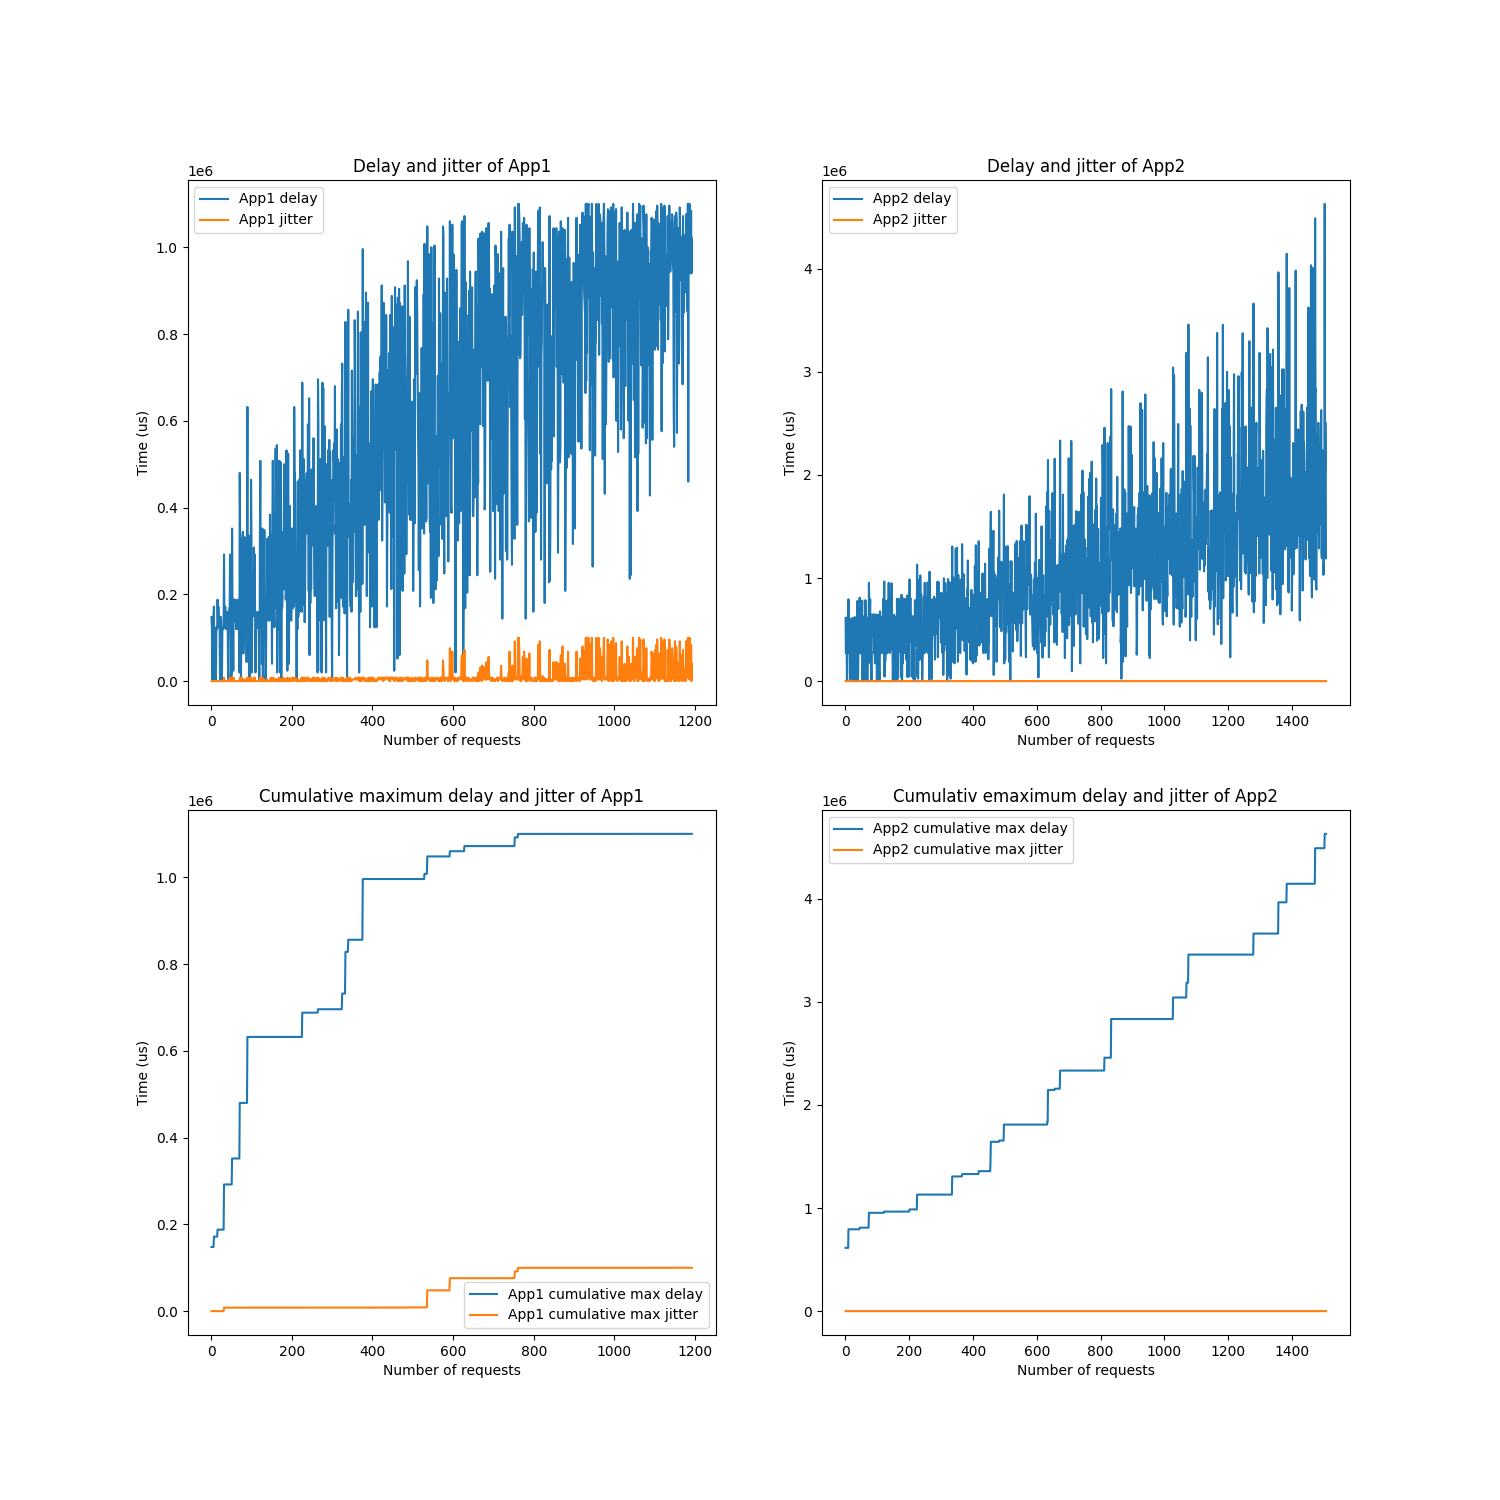
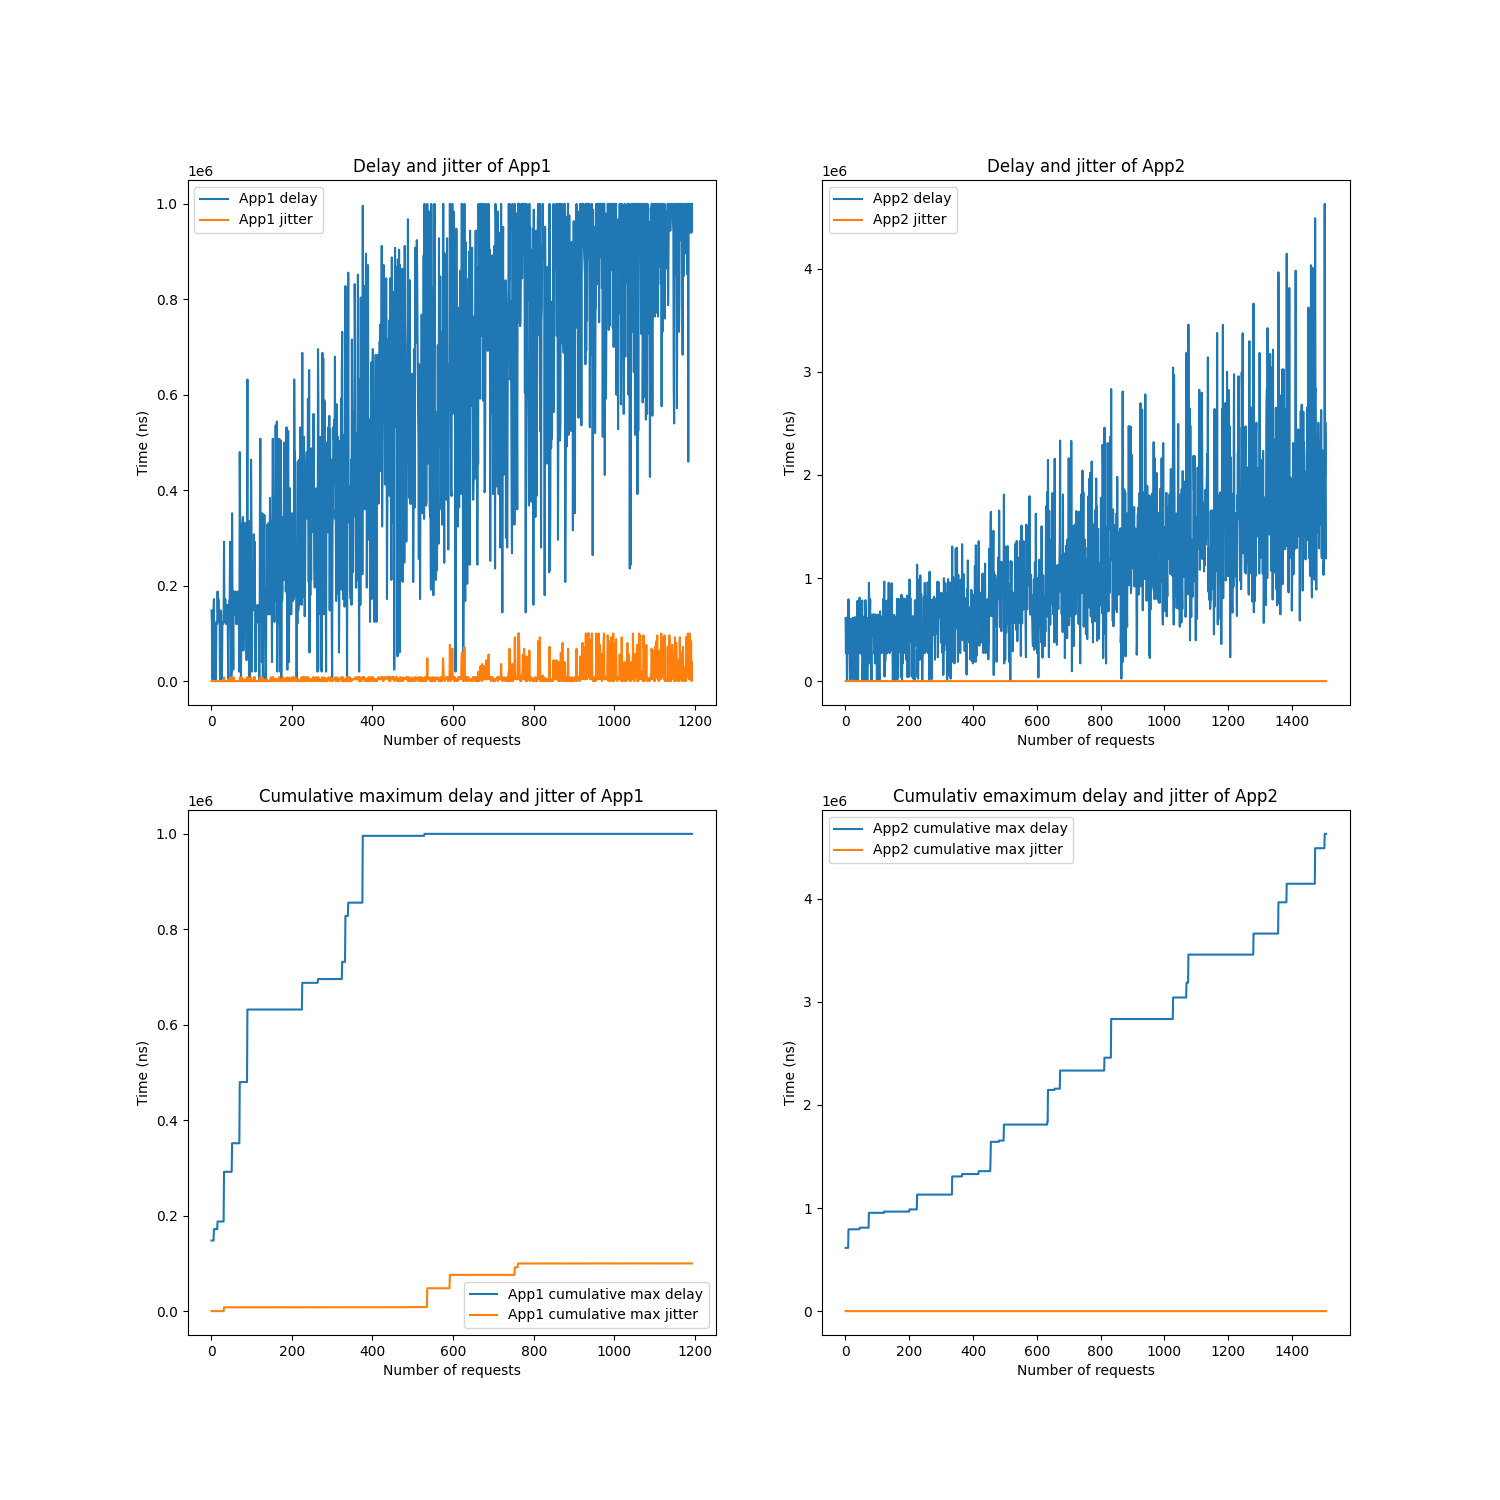
graphs

diff --git a/instance_generator/generate_graph.py b/instance_generator/generate_graph.py
@@ -44,7 +44,7 @@ app1_n_requests = range(1, len(app1_requests) + 1)
 app2_requests = [row for row in data if row['app'] == 'App2']
 app2_n_requests = range(1, len(app2_requests) + 1)
 
-app1_delay = [float(row['delay']) for row in app1_requests]
+app1_delay = [min(float(row['delay']),1*10**6) for row in app1_requests]
 app2_delay = [float(row['delay']) for row in app2_requests]
 app1_solving_time = [float(row['solving_time']) for row in app1_requests]
 app2_solving_time = [float(row['solving_time']) for row in app2_requests]
@@ -53,7 +53,7 @@ app2_pre_processing_time = [float(row['pre_processing']) for row in app2_request
 
 app1_jitter = [float(row['jitter']) for row in app1_requests]
 app2_jitter = [float(row['jitter']) for row in app2_requests]
-app1_cumulative_delay = [float(row['cumulative_max_delay_app']) for row in app1_requests]
+app1_cumulative_delay = [min(float(row['cumulative_max_delay_app']),1*10**6) for row in app1_requests]
 app2_cumulative_delay = [float(row['cumulative_max_delay_app']) for row in app2_requests]
 app1_cumulative_jitter = [float(row['cumulative_max_jitter_app']) for row in app1_requests]
 app2_cumulative_jitter = [float(row['cumulative_max_jitter_app']) for row in app2_requests]
@@ -90,12 +90,12 @@ ax[0].plot(n_requests, cumulative_delay, label='cumulative max delay')
 ax[0].plot(n_requests, cumulative_jitter, label='cumulative max jitter')
 ax[0].legend()
 ax[0].set_xlabel('Number of requests')
-ax[0].set_ylabel('Time (us)')
+ax[0].set_ylabel('Time (ns)')
 ax[0].set_title('Cumulative maximum delay and jitter of network')
 
 ax[1].boxplot([app1_delay, app2_delay, app1_jitter, app2_jitter])
 ax[1].set_xticks([1, 2, 3, 4], ['App1 delay', 'App2 delay', 'App1 jitter', 'App2 jitter'])
-ax[1].set_ylabel('Delay (us)')
+ax[1].set_ylabel('Delay (ns)')
 ax[1].set_title('Delay and jitter of apps variance distribution')
 plt.savefig(f'instance_generator/graphs/{args.filename}/cumulative.png')
 
@@ -105,28 +105,28 @@ ax[0,0].plot(app1_n_requests, app1_delay, label='App1 delay')
 ax[0,0].plot(app1_n_requests, app1_jitter, label='App1 jitter')
 ax[0,0].legend()
 ax[0,0].set_xlabel('Number of requests')
-ax[0,0].set_ylabel('Time (us)')
+ax[0,0].set_ylabel('Time (ns)')
 ax[0,0].set_title('Delay and jitter of App1')
 
 ax[1,0].plot(app1_n_requests, app1_cumulative_delay, label='App1 cumulative max delay')
 ax[1,0].plot(app1_n_requests, app1_cumulative_jitter, label='App1 cumulative max jitter')
 ax[1,0].legend()
 ax[1,0].set_xlabel('Number of requests')
-ax[1,0].set_ylabel('Time (us)')
+ax[1,0].set_ylabel('Time (ns)')
 ax[1,0].set_title('Cumulative maximum delay and jitter of App1')
 
 ax[0,1].plot(app2_n_requests, app2_delay, label='App2 delay')
 ax[0,1].plot(app2_n_requests, app2_jitter, label='App2 jitter')
 ax[0,1].legend()
 ax[0,1].set_xlabel('Number of requests')
-ax[0,1].set_ylabel('Time (us)')
+ax[0,1].set_ylabel('Time (ns)')
 ax[0,1].set_title('Delay and jitter of App2')
 
 ax[1,1].plot(app2_n_requests, app2_cumulative_delay, label='App2 cumulative max delay')
 ax[1,1].plot(app2_n_requests, app2_cumulative_jitter, label='App2 cumulative max jitter')
 ax[1,1].legend()
 ax[1,1].set_xlabel('Number of requests')
-ax[1,1].set_ylabel('Time (us)')
+ax[1,1].set_ylabel('Time (ns)')
 ax[1,1].set_title('Cumulativ emaximum delay and jitter of App2')
 
 plt.savefig(f'instance_generator/graphs/{args.filename}/kpi.png')
